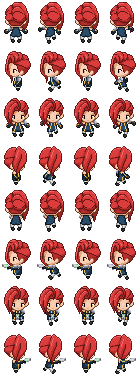
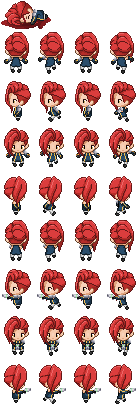
[ADD] Player death sprites

diff --git a/opengltest/Player.cpp b/opengltest/Player.cpp
@@ -49,7 +49,8 @@ Player::Player(ProjectileManager* projManager, SpriteSheetInfo bar, float _x, fl
 	texture->addSpriteAnimRow(1, 0, 236, 35.f, 0, 3);
 	texture->addSpriteAnimRow(2, 0, 283, 35.f, 0, 3);
 	texture->addSpriteAnimRow(3, 0, 330, 35.f, 0, 3);
-	texture->addSpriteAnimRow(8, 0, 0, 35, 47, 3);
+	//texture->addSpriteAnimRow(8, 0, 378, 35, 47, 3);
+	texture->addSpriteAnimFrame(8, 0, 377);
 	texture->setLayerID(1);
 	texture->setCurrentAnimation(0);
 }
@@ -79,18 +80,6 @@ void Player::draw()
 
 void Player::update(float dTime)
 {
-	if (hp <= 0)
-	{
-		//am ded
-		//texture->setCurrentAnimation(9);
-		//texture->setSpriteFrameSize(52, 30);
-		deathAnim -= dTime;
-		return;
-	}
-	else
-	{
-		//texture->setSpriteFrameSize(34, 46);
-	}
 	//update items
 	for (int i = 0, s = inventory.size(); i < s; i++)
 		inventory[i]->Update(dTime);
@@ -223,8 +212,19 @@ void Player::update(float dTime)
 	else
 		speed = 0.1f;
 
+	if (hp <= 0)
+	{
+		texture->setCurrentAnimation(8);
+		texture->setSpriteFrameSize(52, 30);
+		deathAnim -= dTime;
+		return;
+	}
+	else
+	{
+		texture->setSpriteFrameSize(34, 46);
+		texture->setCurrentAnimation(curAnim);
+	}
 	texture->setPosition(x, y);
-	texture->setCurrentAnimation(curAnim);
 
 	if (animFrame >= 1.f)
 	{
